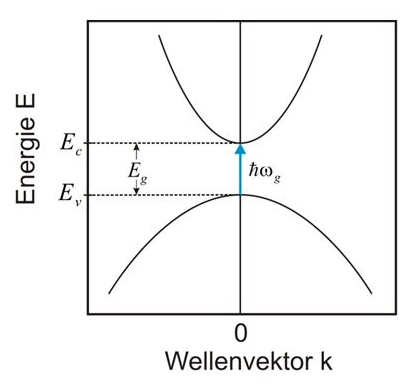
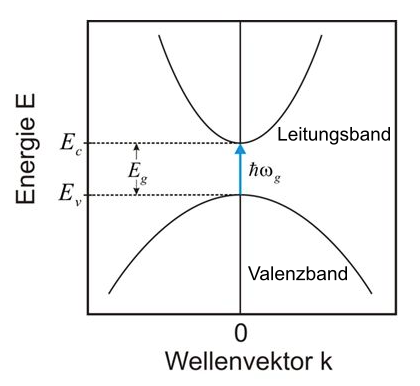
Korrektur meine Fresse
legg mich

Changed region(s): [[0.5881, 0.6839, 0.8357, 0.7461], [0.65, 0.3109, 0.9286, 0.3731], [0.5571, 0.3731, 0.5881, 0.4041]]

diff --git a/Protokolle/V46/content/theorie.tex b/Protokolle/V46/content/theorie.tex
@@ -1,18 +1,24 @@
 \section{Einleitung}
 \label{sec:Einleitung}
 
-Ziel dieses Versuches ist es, die effektive Masse der Leitungselektronen in n-dotiertem
-Galliumarsenid (GaAs) zu bestimmen. Dafür wird der Faraday-Effekt ausgenutzt und eine Vergleichsmessung
-zwischen reinem und dotiertem GaAs durchgeführt, um den Effekt der Leitungselektronen zu isolieren.
+Ziel dieses Versuches ist es, die effektive Masse der Leitungselektronen in Galliumarsenid (GaAs) zu bestimmen.
+Dafür wird der Faraday-Effekt ausgenutzt und eine Vergleichsmessung zwischen reinem und dotiertem GaAs durchgeführt,
+um den Effekt der Leitungselektronen zu isolieren.
 
 \section{Theorie}
 \label{sec:Theorie}
 
-Für diesen Versuch wird Galliumarsenid verwendet, es handelt sich dabei um einen Halbleiterwerkstoff.
-GaAs kann undotiert oder dotiert vorkommen, von besonderem Interesse für diesen Versuch sind dotierte
-Varianten, da diese Leitungselektronen aufweisen. Allgemein zeichnen sich Halbleiter
-dadurch aus, dass sie über diese Elektronen verfügen, die durch Anregung leicht ins Leitungsband springen
-können und somit eine elektrische Leitfähigkeit generieren. Diesen Leitungselektronen lässt sich
+Für diesen Versuch wird Galliumarsenid verwendet, es handelt sich dabei um einen Halbleiter.
+GaAs kann undotiert oder dotiert vorliegen, von besonderem Interesse für diesen Versuch sind n-dotierte
+Varianten, da diese Leitungselektronen aufweisen.
+Allgemein besitzen alle Festkörper ein Valenzband sowie ein Leitungsband, dies wird auch als Bandstruktur bezeichnet. Im Valenzband befinden sich
+die Elektronen, die für die kovalenten Bindungen zwischen den Atomen zuständig sind.
+Das Leitungsband kann nur von Elektronen besetzt werden, wenn diese eine minimal benötige Energie besitzen.
+In Halbleitern ist diese Energie etwas höher als die Fermi-Energie der Elektronen, weshalb Elektronen
+nur durch Anregung in das Leitungsband wechseln können.
+Elektronen im Leitungsband verleihen dem Festkörper eine elektrische Leitfähigkeit, da sie sich
+im Gegensatz zu Elektronen im Valenzband nahezu frei bewegen können.
+Diesen Leitungselektronen lässt sich
 eine effektive Masse zuordnen, welche in diesem Versuch bestimmt werden soll und im nächsten Kapitel
 näher erläutert wird.
 
@@ -28,7 +34,10 @@ zu betrachten. Diese ist in \autoref{fig:Halbleiter} graphisch dargestellt.
     \label{fig:Halbleiter}
 \end{figure}
 
-Die Bandstruktur weißt einen nahezu parabelförmigen Verlauf auf, weshalb sich eine Taylorentwicklung der unteren Kante des
+Hierbei beschreibt $E_{\text{v}}$ die maximale Energie des Valenzbandes und $E_{\text{c}}$ die minimale Energie des Leitungsbandes.
+Damit ein Elektron vom Valenzband ins Leitungsband wechseln kann, muss ihm die Energie $E_{\text{g}}=\hbar \omega_{\text{g}}$
+zugeführt werden.
+Im Bereich um $k=0$ weißt die Bandstruktur einen nahezu parabelförmigen Verlauf auf, weshalb sich eine Taylorentwicklung der unteren Kante des
 Leitungsbandes bis zur zweiten Ordnung anbietet:
 
 \begin{equation}
@@ -36,14 +45,14 @@ Leitungsbandes bis zur zweiten Ordnung anbietet:
     \notag
 \end{equation}
  
-Vergleicht man dies mit einem harmonischen Oszillator mit
+Verglichen mit einem harmonischen Oszillator mit
 
 \begin{equation}
     E=\frac{\hbar k^2}{2m}\,
     \notag
 \end{equation}
 
-so fällt auf, dass sich der zweite Koeffizient der Taylorentwicklung als effektive Masse $m_i^*$ interpretieren lässt:
+fällt auf, dass sich der zweite Koeffizient der Taylorentwicklung als effektive Masse $m_i^*$ interpretieren lässt:
     
 \begin{equation}
     m_i^*:=\frac{\hbar^2}{\left(\frac{\partial\epsilon^2}{\partial k_i^2}\right)_{k=0}}
@@ -58,19 +67,19 @@ lassen sich die Leitungselektronen somit als freie Elektronen beschreiben, deren
 \subsection{Zirkulare Doppelbrechung}
 \label{sec:Faraday}
 
-In optisch aktiven Medien kann zirkuläre Doppelbrechung auftreten. Diese beschreibt die
+In optisch aktiven Medien kann zirkulare Doppelbrechung auftreten. Diese beschreibt die
 Fähigkeit eines Kristalles, die Polarisationsebene eines linear polarisierten Lichtstrahles bei der Transmission zu drehen, das Konzept ist in 
 \autoref{fig:rotation} dargestellt.
 
 \begin{figure} [H]
     \centering
     \includegraphics[height=6cm]{content/rotation.png}
-    \caption{Zirkuläre Polarisation in einem Kristall. \cite{V46Anhang}}
+    \caption{Zirkulare Polarisation in einem Kristall. \cite{V46Anhang}}
     \label{fig:rotation}
 \end{figure}
 
 Die Ursache liegt dabei darin, dass Phasengeschwindigkeiten für links- und rechtszirkular polarisiertes Licht in dem Kristallmedium verschieden sind.
-Hierbei kann linear polarisiertes Licht gemäß \eqref{eq:supo} als Überlagerung von links- und rechtszirkular polarisiertes Licht verstanden werden.
+Hierbei kann linear polarisiertes Licht gemäß \autoref{eq:supo} als Überlagerung von links- und rechtszirkular polarisiertes Licht verstanden werden.
 \begin{equation}
     E(z)=\frac{1}{2}(E_\text{L}(z)+E_\text{R}(z))
     \label{eq:supo}
@@ -88,7 +97,7 @@ beziehungsweise über die Brechungsindices ausgedrückt
 \end{equation}
 Dabei ist $L$ die Länge des Kristalls und $\omega$ die Kreisfrequenz der elektromagnetischen Welle.
 Die unterschiedlichen Phasengeschwindigkeiten kommen aufgrund der Dipolmomente der Atome auf den Gitterplätzen im Kristall sowie
-der Wechselwirkung der Bandelektronen mit diesen zustande. Deshalb kann der in \eqref{eq:winkel} berechnete Winkel mithilfe einiger
+der Wechselwirkung der Bandelektronen mit diesen zustande. Deshalb kann der in \autoref{eq:winkel} berechnete Winkel mithilfe einiger
 Umformungen über die Suszeptibilität ausgedrückt werden:
 \begin{equation}
     \theta = \frac{L\omega}{2cn}\chi_{xy}
@@ -97,29 +106,28 @@ Umformungen über die Suszeptibilität ausgedrückt werden:
 
 \subsection{Faraday Effekt}
 
-Durch anlegen eines B-Feldes parallel zur Ausbreitungsrichtung des Lichtes kann in optisch inaktiven Medien die selbe Rotation erzeugt werden, dies
+Durch das Anlegen eines Magnetfeldes parallel zur Ausbreitungsrichtung des Lichtes kann in einem optisch inaktiven Medium die selbe Rotation erzeugt werden, dies
 wird auch als Faraday Effekt beschrieben. Der physikalische Hintergrund ist hierbei, dass die Leitungselektronen durch das Magnetfeld auf Kreisbahnen
 gezwungen werden und Dipolmomente erzeugen.
-Die Tensorkomponente $\chi_{xy}$ aus \eqref{eq:thetatensor} ergibt sich nun zu
+Die Tensorkomponente $\chi_{xy}$ aus \autoref{eq:thetatensor} ergibt sich nun zu
 \begin{equation}
     \chi_{xy} = \frac{N\text{e}^3\omega B}{\epsilon_0\left(\left(-m\omega^2+K\right)^2-\left(\text{e}\omega B\right)^2\right)}
     \label{eq:tensor}
 \end{equation}
 Dabei beschreibt $K$ die Bindungskonstante der Elektronen an ihre Umgebung.
-Einsetzen von \eqref{eq:tensor} in \eqref{eq:thetatensor} liefert die Beziehung
+Das Einsetzen von \autoref{eq:tensor} in \autoref{eq:thetatensor} liefert die Beziehung
 \begin{equation}
     \theta=\frac{\text{e}_0^3\omega^2NBL}{2\epsilon_0cm^2\left(\left(-\omega^2+\omega_0^2\right)^2-\left(\omega_{\text{c}}\omega\right)^2\right)n}
     \label{eq:ha}
 \end{equation}
 wobei $\sqrt{\frac{K}{m}}$ als Resonanzfrequenz $\omega_0$ definiert wurde sowie $\omega_{\text{c}} = \frac{\text{e}B}{m}$ für die Zyklotronfrequenz steht.
 Zuletzt wird angenommen, dass die Messfrequenz $\omega$ wesentlich kleiner als $\omega_0$ ist, sowie dass $\omega_0>\omega_{\text{c}}$ gilt. Dann vereinfacht
-sich \eqref{eq:ha} zu der Formel
+sich \autoref{eq:ha} zu der Formel
 \begin{equation}
     \theta(\lambda)=\frac{\text{e}_0^3}{8\pi^2\epsilon_0c^3}\frac{1}{{m^*}^2}\frac{NBL}{n}\lambda^2\,
     \label{eq:theta}
 \end{equation}
 welche die Rotation der Polarisationsebene in Abhängigkeit der Wellenlänge angibt.
 Sind alle vorkommenden Größen bekannt, also das Magnetfeld $B$, die Ladungsträgerdichte $N$ und die Länge der Probe $L$, kann die effektive Masse
-$m^*$ durch umstellen von \eqref{eq:theta} berechnet werden.
-Aus praktischen Gründen wird mit $\theta_\text{frei}$ gerechnet, hier wird der Rotationswinkel $\theta$ auf die Länge der Probe normiert, indem dadurch
-geteilt wird.
+$m^*$ durch Umstellen von \autoref{eq:theta} berechnet werden.
+Aus praktischen Gründen wird mit $\theta_\text{frei}$ gerechnet, hier wird der Rotationswinkel $\theta$ auf die Länge der Probe normiert.

diff --git a/Protokolle/V46/content/durchfuehrung.tex b/Protokolle/V46/content/durchfuehrung.tex
@@ -2,7 +2,7 @@
 \label{sec:Durchführung}
 
 Um die effektive Masse der Elektronen bestimmen zu können, muss sichergestellt werden,
-dass lediglich die Faraday-Rotation betrachtet wird. Deshalb wird ebenfalls eine Messung
+dass lediglich die durch die freien Ladungsträger verursachte Rotation betrachtet wird. Deshalb wird ebenfalls eine Messung
 mit reinem GaAs durchgeführt, um später die Differenz aus beiden Rotationen zu bilden.
 
 \subsection{Versuchsaufbau}
@@ -17,18 +17,18 @@ Der Versuchsaufbau ist in \autoref{fig:Aufbau} dargestellt und wird im folgenden
 \end{figure}
 
 Eine Halogenlampe dient als Lichtquelle, sie leuchtet größtenteils im Infrarotbereich, da die Probe für diese Wellenlängen
-am durchlässigsten ist. Dannach wird das Licht durch eine Linse gebündelt und mithilfe eines Lichtzerhackers mit einer bekannten
+am durchlässigsten ist. Danach wird das Licht durch eine Linse gebündelt und mithilfe eines Lichtzerhackers mit einer bekannten
 Frequenz von $\qty{450}{\Hz}$ in Pulse geteilt. Mithilfe des darauf folgenden Glan-Thompson-Prismas wird das Licht linear polarisiert.
 Das Prisma ist dabei drehbar an einem Goniometer befestigt, sodass die genaue Polarisationsrichtung eingestellt und abgelesen werden kann.
 Anschließend wird das Strahlenbündel durch einen Elektromagneten geschickt, in dessen Mitte sich die Probe befindet.
 Somit liegt die Probe im Bereich des maximalen B-Feldes, und während das Licht diese durchquert, tritt der in \autoref{sec:Faraday}
 beschriebene Faraday-Effekt auf.
 
-Nach dem Magneten ist ein Interferenzfilter platziert, sodass jeweils nur eine Wellenlänge betrachtet werden kann. Das Licht trifft dannach auf
-einen Analysator, der den Strahl in zwei Teile spaltet, die eine zueinander orthogonale Polarisation besitzen. Beide Strahlen treffen
+Nach dem Magneten ist ein Interferenzfilter platziert, sodass jeweils nur eine Wellenlänge betrachtet werden kann. Das Licht trifft danach auf
+ein Glan-Thomspon-Prisma, das als Analysator dient. Hier wird der den Strahl in zwei Teile gespalten, die eine zueinander orthogonale Polarisation besitzen. Beide Strahlen treffen
 auf Photoelemente, die daraufhin eine Wechselspannung erzeugen, die ausgekoppelt wird. Beide Spannungen werden mithilfe eines Differenzverstärkers
 zusammengeführt, und anschließend in einen Selektivverstärker geführt. Dieser wird auf die Frequenz des Lichtzerhackers abgestimmt, somit kann ein
-Großteil des Signalrauschens unterdrückt werden, man bezeichnet dieses Vorgehen auch als Wechsellichtmethode.
+Großteil des Signalrauschens unterdrückt werden, dieses Vorgehen wird auch als Wechsellichtmethode bezeichnet.
 Zuletzt wird das Signal des Selektivverstärkers mithilfe eines Oszilloskops visualisiert, sodass eine Amplitude abgelesen werden kann.
 
 \subsection{Versuchsdurchführung}
@@ -41,6 +41,6 @@ abbekommen.
 Für den Versuch stehen drei GaAs Proben zur Verfügung, von denen eine undotiert ist, diese wird zuerst in der Mitte des Magneten platziert.
 Um den Rotationswinkel zu messen, wird der Winkel des Glan-Thompson-Prismas
 solange verstellt, bis das Signal am Oszilloskop ein Minimum annimmt. Es wird nun der entsprechende Winkel am Goniometer abgelesen und
-die Prozedur mit umgepolten B-Feld wiederholt. Diese Messung wird mit 9 verschiedenen Interferenzfiltern durchgeführt, um genug unterschiedliche Wellenlängen für einen
+die Prozedur mit umgepolten B-Feld wiederholt. Diese Messung wird mit neun verschiedenen Interferenzfiltern durchgeführt, um genug unterschiedliche Wellenlängen für einen
 Fit in der Auswertung zur Verfügung zu haben.
 Zuletzt wird die Messung zwei weitere Male mit den dotiertem GaAs Proben durchgeführt.

diff --git a/Protokolle/V46/V46.tex b/Protokolle/V46/V46.tex
@@ -5,7 +5,7 @@
 \date{%
   Durchführung: 17.04.2023
   \hspace{3em}
-  Abgabe: DATUM
+  Abgabe: 22.04.2023
 }
 
 \begin{document}
